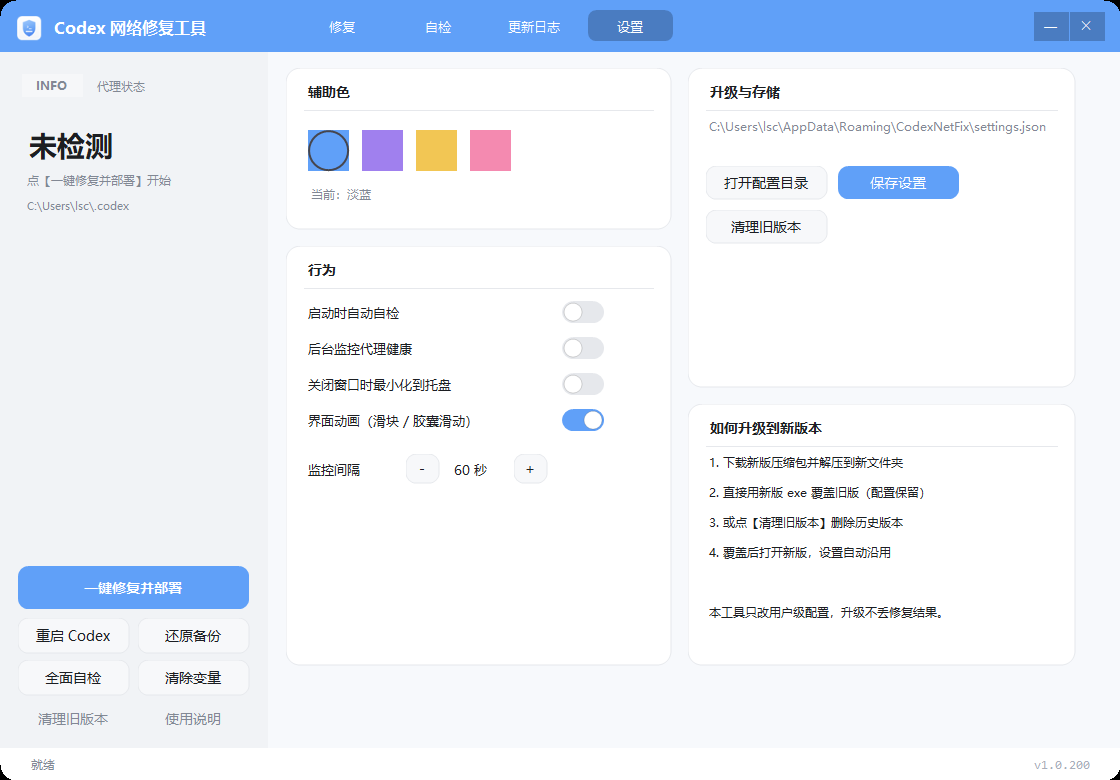
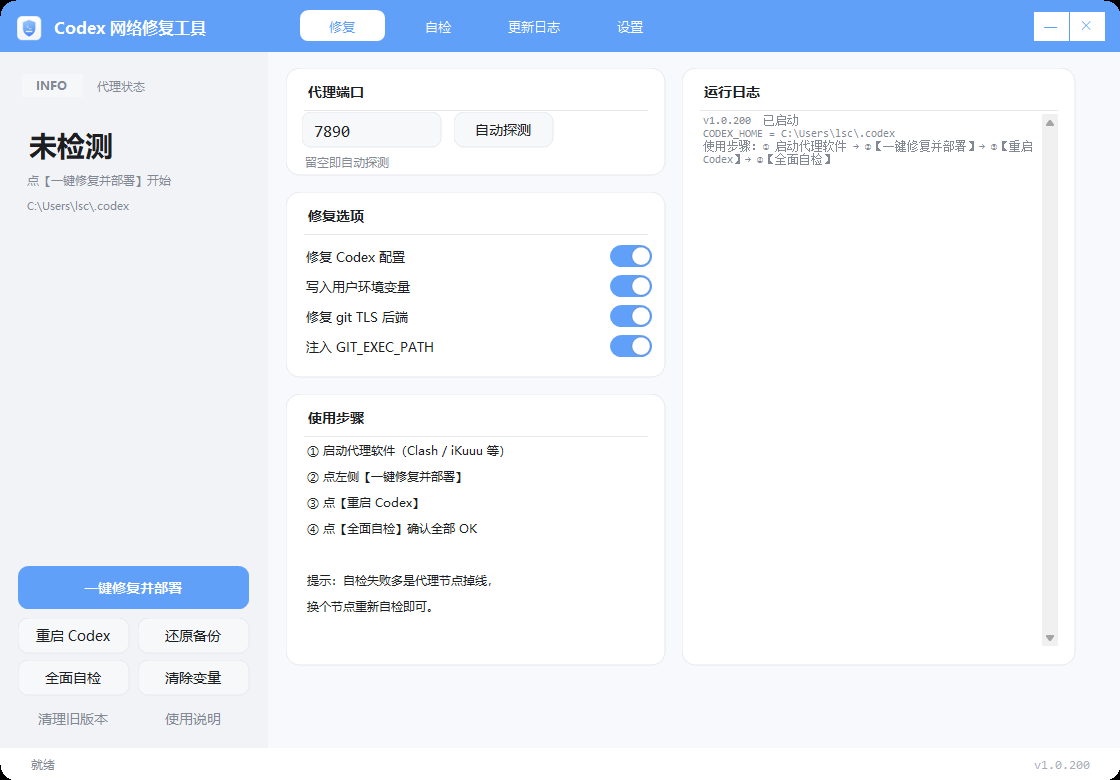
style(ui): 导航选中块与最小化/关闭统一为白色圆角矩形（强调色文字/图标）

diff --git a/src/Program.cs b/src/Program.cs
@@ -248,7 +248,7 @@ namespace CodexNetFix
             int pw = pillW <= 0f ? navRepair.Box.Width : (int)Math.Round(pillW);
             Rectangle pr = new Rectangle(px, navRepair.Box.Top, Math.Max(8, pw - 1), navRepair.Box.Height - 1);
             using (System.Drawing.Drawing2D.GraphicsPath gp = Draw.Rounded(pr, 8))
-            using (SolidBrush sb = new SolidBrush(pal.AccentDark))
+            using (SolidBrush sb = new SolidBrush(Color.White))
                 g.FillPath(sb, gp);
 
             // 文字：按滑块覆盖该导航项的比例，从白色渐变到强调色（避免“露馅”）
@@ -257,7 +257,7 @@ namespace CodexNetFix
                 Rectangle tr = new Rectangle(n.Box.Left, n.Box.Top, n.Box.Width, n.Box.Height);
                 int x1 = Math.Max(tr.Left, pr.Left), x2 = Math.Min(tr.Right, pr.Right);
                 float cov = x2 > x1 ? (float)(x2 - x1) / tr.Width : 0f;
-                Color col = Color.White;   // 选中态由深色块体现，文字保持白色
+                Color col = ColorUtil.Blend(Color.White, pal.Accent, cov);   // 白底选中块上用强调色文字
                 Font f = n.Box.CaptionFont != null ? n.Box.CaptionFont : Draw.Ui(9.5f, FontStyle.Regular);
                 TextRenderer.DrawText(g, n.Caption, f, tr, col,
                     TextFormatFlags.HorizontalCenter | TextFormatFlags.VerticalCenter | TextFormatFlags.EndEllipsis);
@@ -277,7 +277,7 @@ namespace CodexNetFix
             b.HoverFillColor = Color.White;
             b.HoverAlpha = 24;   // ≈9% 白，非常柔和
             b.NoPaint = true;           // 背景完全交给顶栏绘制
-            b.Ghost = false; b.NoPaint = false; b.CustomFill = pal.AccentDark; b.TextOverride = Color.White; b.HoverFillColor = Color.Empty;   // 分层深色块
+            b.Ghost = false; b.NoPaint = false; b.CustomFill = Color.White; b.TextOverride = pal.Accent; b.HoverFillColor = Color.Empty;   // 白色圆角矩形 + 强调色图标
             b.Click += h;
             return b;
         }
@@ -820,7 +820,7 @@ namespace CodexNetFix
                     }
                     else if (tag == "winbtn" || tag == "winclose")
                     {
-                        rb.Ghost = false; rb.CustomFill = pal.AccentDark; rb.TextOverride = Color.White;
+                        rb.Ghost = false; rb.CustomFill = Color.White; rb.TextOverride = pal.Accent;
                         // 悬停：半透明高亮（最小化=极淡白，关闭=淡红）
                         if (rb.Tag != null && rb.Tag.ToString() == "winclose") { rb.HoverFillColor = Color.FromArgb(255, 232, 82, 82); rb.HoverAlpha = 60; }
                         else { rb.HoverFillColor = Color.White; rb.HoverAlpha = 24; }

diff --git a/CHANGELOG.md b/CHANGELOG.md
@@ -8,7 +8,7 @@
 - 导航改为**父级统一绘制 + 命中测试**，修复"文字与滑块消失"的问题
 - 最小化 / 关闭改为**纯图标**，悬停改为**半透明**高亮（不再刺眼）
 - 更新日志新增「**作者有话说**」并固定置顶（不随版本列表滚动）
-- 新增**深色辅助色**：导航选中态改为"辅助色加深 22%"的圆角矩形；最小化/关闭改为深色分层圆角块（随辅助色联动）
+- 导航选中态与最小化 / 关闭统一为**白色圆角矩形**（文字 / 图标用强调色），风格更统一
 - 版本号升级为 **v1.0.200**
 
 ## v1.0.125
